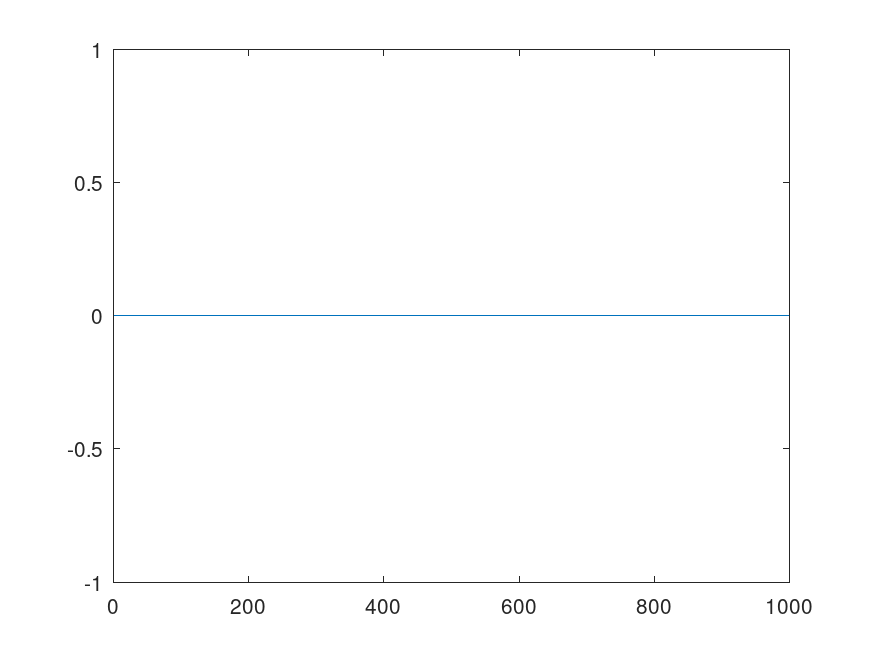
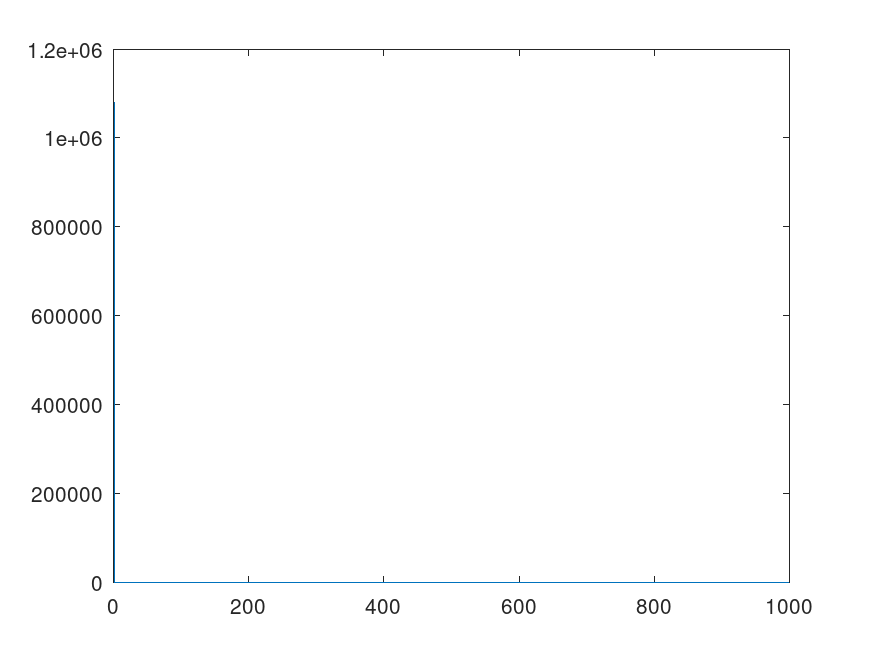
Testing conjugate gradient implementation

diff --git a/pcg_experiment.m b/pcg_experiment.m
@@ -17,7 +17,7 @@ function pcg_experiment()
         matrices{i}
         load(sprintf("in/%s.mat", matrices{i}));
         A = Problem.A;
-        [x, flag, relres, iter, resvec, tol, maxit] = test_pcg_params(A, ones(rows(A), 1), tols, maxit_per_mat{i});
+        [x, flag, relres, iter, resvec, tol, maxit] = test_pcg_params(A, A * ones(rows(A), 1), tols, maxit_per_mat{i});
 
         f = fopen(sprintf("out/%s.txt", matrices{i}), "w");
         fprintf(f, "n = %d\n", rows(A));

diff --git a/test_pcg_params.m b/test_pcg_params.m
@@ -14,7 +14,7 @@ function [best_x, best_flag, best_relres, best_iter, best_resvec, best_tol, best
         tol = inputs{i,1};
         maxit = inputs{i,2};
         [x, cflag, relres, iter, resvec] = conjgrad(A, b, tol, maxit);
-        sol_diff = abs(norm(x, inf) - 1);
+        sol_diff = abs(abs(norm(x, inf)) - 1);
         if sol_diff < best_sol_diff
             best_x = x;
             best_flag = cflag;

diff --git a/conjgrad.cpp b/conjgrad.cpp
@@ -75,7 +75,8 @@ DEFUN_DLD(conjgrad, args, nargout, "C++ implementation of the Conjugate Gradient
     for (int i = 0; i < n; ++i)
         p(i) = 0.0;
     
-    while (resvec(iter) > tol * b_norm && iter < max_iter)
+    iter = 1;
+    while (resvec(iter - 1) > tol * b_norm && iter < max_iter)
     {
         tau = dot_product(r, r);
         resvec(iter) = sqrt(tau);
